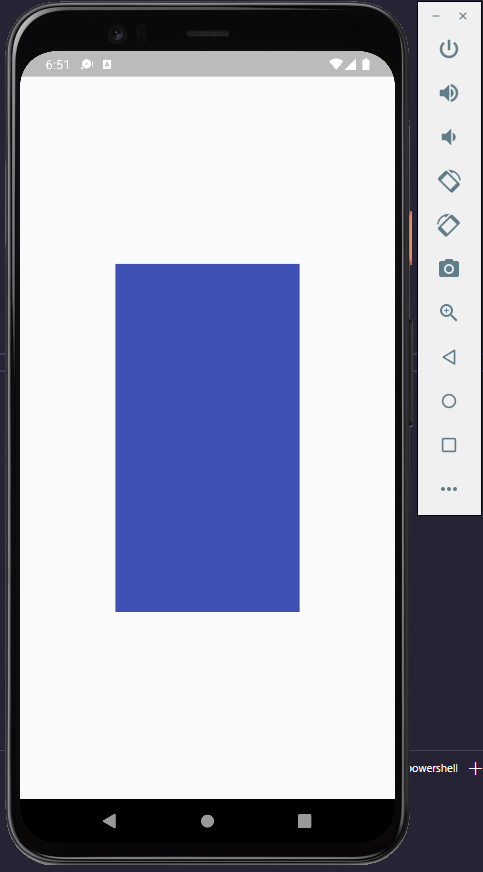
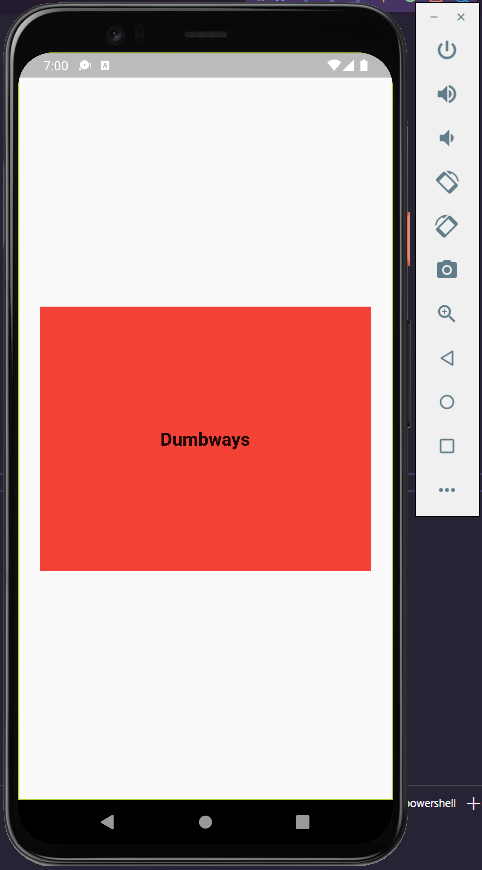
Animated Container

diff --git a/lib/screens/home.dart b/lib/screens/home.dart
@@ -36,8 +36,14 @@ class _HomeScreenState extends State<HomeScreen> {
             duration: Duration(milliseconds: 2000),
             width: widthContainer,
             height: heightContainer,
-            color: Colors.indigo,
-            curve: Curves.elasticInOut,
+            color: Colors.red,
+            curve: Curves.elasticOut,
+            alignment:
+                heightContainer >= 300 ? Alignment.topCenter : Alignment.center,
+            child: Text(
+              'Dumbways',
+              style: TextStyle(fontSize: 20, fontWeight: FontWeight.w800),
+            ),
           ),
         )),
       ))),
